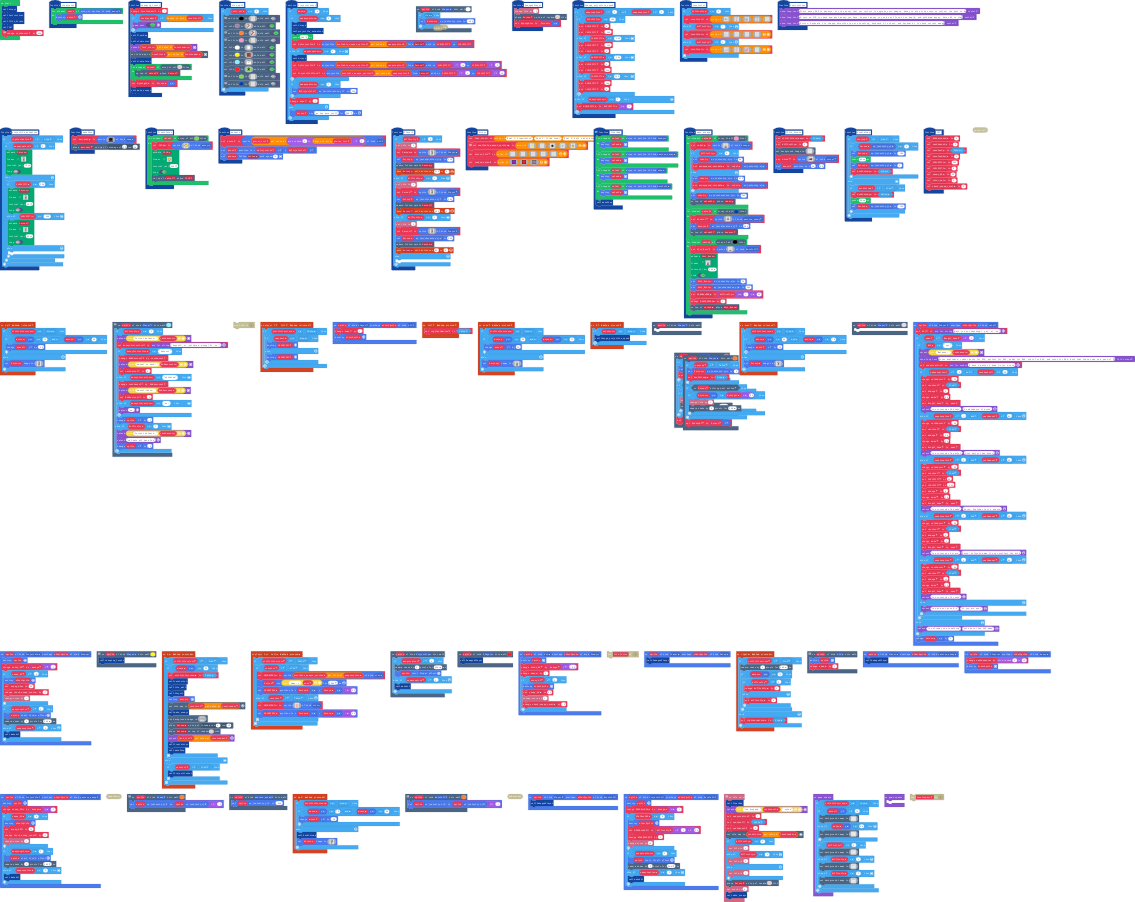
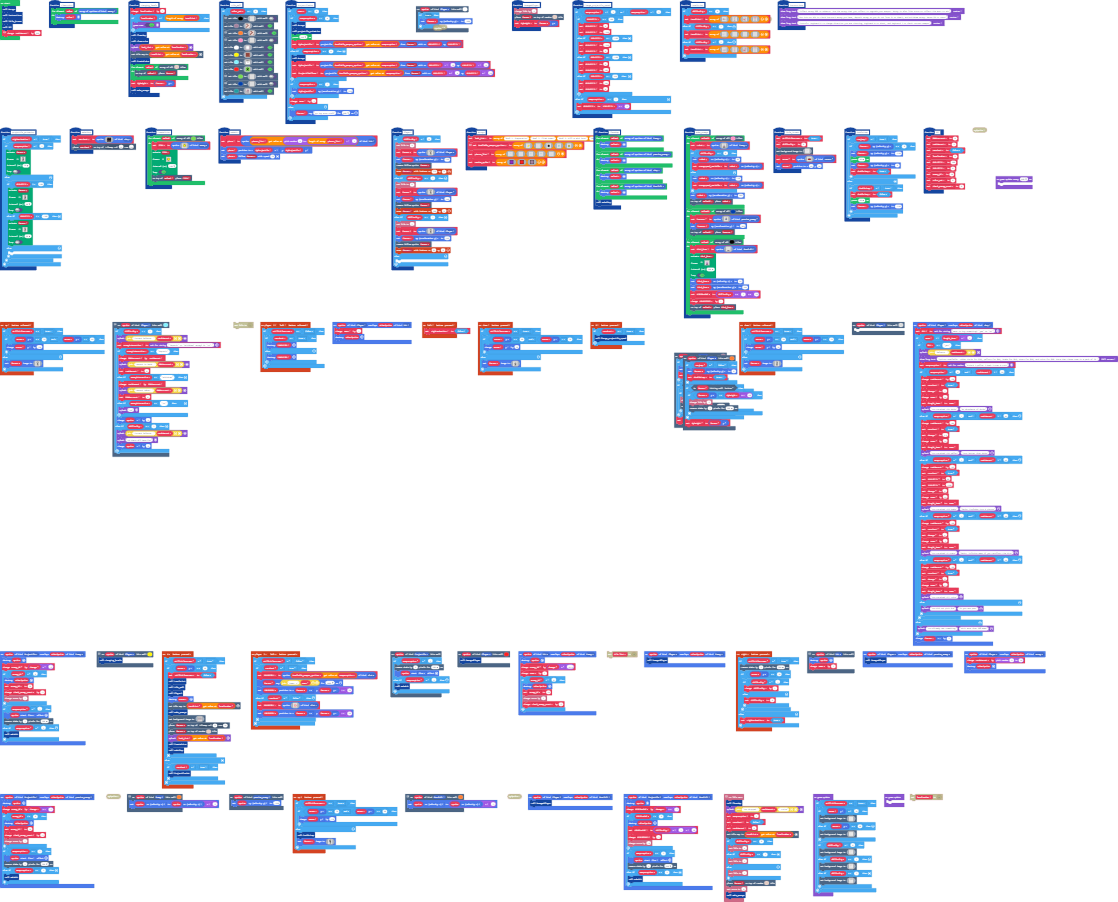
edit the spawner

diff --git a/main.ts b/main.ts
@@ -303,6 +303,24 @@ e e e e e e e e e e e e e e e e
 . . . . . . . . . . . . . . . . 
 . . . . . . . . . . . . . . . . 
 `, false)
+        scene.setTile(6, img`
+. . . . . . . . . . . . . . . . 
+. . . . . b b b b b b . . . . . 
+. . . . . b 1 1 1 1 b . . . . . 
+. . . . . b 1 2 2 1 b . . . . . 
+. . . . . b 1 2 2 1 b . . . . . 
+. . . . . b 1 1 1 1 b . . . . . 
+. . . . c b b b b b b c . . . . 
+. . . c c c c c c c c c c . . . 
+. . . c b b b b b b b b c . . . 
+. . . b . f . f . f . f b . . . 
+. . b . . . . . . . . . . b . . 
+. . b . . . . . . . . . . b . . 
+. . b . . . . . . . . . . b . . 
+. . b . . . . . . . . . . b . . 
+. . b . f . f . f . f . f b . . 
+. . . b b b b b b b b b b . . . 
+`, true)
     }
 }
 function Projectileshot () {
@@ -424,8 +442,8 @@ b b b b b b b b b b b b b b b b b b b b b b b b b b b b b b b b
 . . . . b . . 2 . . . b . . . . 
 . . . . b . . 2 . . b b . . . . 
 . . 7 . b . b b . . . . . . . . 
-. . . . b . 9 4 . . . 3 . . . . 
-d . . . b b b b b b b b b b 2 4 
+d . . . b . 9 4 . . . 3 . . . . 
+b b b b b b b b b b b b b b 2 4 
 `, img`
 . . . . . . . . . . . . . . . . . 
 . . . . . 7 . . . . . f . . . . . 
@@ -465,12 +483,12 @@ b b b b b b b b b b b b b 2 2 b b
 2 2 2 b . . . . . . . . . . . . . . . . . . b 2 2 2 
 . . 2 b . . . . . . . . . . . . . . . . . . b 2 . . 
 7 . 2 b . . . . . . . . . . . . . . . . . . b 2 . 7 
-. . 2 b . . . . . . . . . . . . . . . . . . b 2 . . 
-. . 2 b . . . . . . . . . . . . . . . . . . b 2 . . 
-. . 2 b . . . . . . . . . . . . . . . . . . b 2 . . 
+. . 2 b . . . . . b b b b b b b b . . . . . b 2 . . 
+. . 2 b . . b b b . . b b b b . . b b b . . b 2 . . 
+. . 2 b . . . b . . . . . . . . . . b . . . b 2 . . 
 . . 2 2 b . . . . . . . . . . . . . . . . b 2 2 . . 
-. . . 2 b . . . . . . . . . . . . . . . . b 2 . . . 
-. . . 2 2 b . . . . . . . . . . . . . . b 2 2 . . . 
+. . . 2 b . . . . . . b b b b . . . . . . b 2 . . . 
+. . . 2 2 b . . . . . . b b . . . . . . b 2 2 . . . 
 . . . . 2 b . . . . . . . . . . . . . . b 2 . . . . 
 . . . . 2 2 b b . . . . . . . . . . b b 2 2 . . . . 
 . . . . . 2 2 2 b b . . . . . . b b 2 2 2 . . . . . 
@@ -646,8 +664,8 @@ b b b b b b b b . . . . b b b 7 9 b b . . b b b . . b 1 1 b 2 2 b b b b b 7 . . 
 . . . . b . 2 2 . . . . . . . . 2 b . . . . 
 . . . . b . . 2 b . . . . 7 . . . b . . . . 
 . . . . b . . . 2 2 . . . . . . . . . . . . 
-. . . . b . . . 9 2 b . . . . . . d . . . . 
-d . . . 2 b b b b b b 2 2 b 2 2 b b b 2 2 2 
+d . . . b . . . 9 2 b . . . . . . d . . . . 
+b b b b 2 b b b b b b 2 2 b 2 2 b b b 2 2 2 
 `, img`
 2 2 2 2 2 2 2 2 2 2 2 2 2 2 2 2 2 2 2 2 2 2 2 2 2 2 2 
 . . . . . . . . . . . . . . . . . . . . . . . 2 2 2 2 
@@ -684,22 +702,76 @@ b b b b b b b b 4 . . . . . 3 4 b b b b 4 . 2 b 1 1 b
 b b b b b b b b b b b b b b b b 1 b b 1 b 2 2 b 1 1 b 
 b b b b b b b b b b b b b b b b b b b b b 2 2 b b b b 
 `, img`
-. . . . . . . . . . . . . . . . 
-. . . . . . . . . . . . . . . . 
-. . . . . . . . . . . . . . . . 
-. . . . . . . . . . . . . . . . 
-. . . . . . . . . . . . . . . . 
-. . . . . . . . . . . . . . . . 
-. . . . . . . . . . . . . . . . 
-. . . . . . . . . . . . . . . . 
-. . . . . . . . . . . . . . . . 
-. . . . . . . . . . . . . . . . 
-. . . . . . . . . . . . . . . . 
-. . . . . . . . . . . . . . . . 
-. . . . . . . . . . . . . . . . 
-. . . . . . . . . . . . . . . . 
-. . . . . . . . . . . . . . . . 
-. . . . . . . . . . . . . . . . 
+2 2 2 2 2 2 2 2 2 2 2 2 2 2 2 2 2 2 2 2 2 2 2 2 2 2 2 2 2 2 2 2 2 2 2 2 2 2 2 2 2 2 
+2 2 2 2 2 2 2 2 2 2 2 2 2 2 2 2 2 2 2 2 2 2 2 2 2 2 2 2 2 2 2 2 2 2 2 2 2 2 2 2 2 2 
+2 2 2 2 2 2 2 2 2 2 2 2 2 2 2 b b b 2 2 2 2 2 2 b b b 2 2 2 2 2 2 2 2 2 2 2 2 2 2 2 
+2 2 2 2 2 2 2 2 2 2 2 2 2 b b . . . 2 2 2 2 2 2 . . . b b 2 2 2 2 2 2 2 2 2 2 2 2 2 
+2 2 2 2 2 2 2 2 2 2 2 2 b . . . . . . 2 2 2 2 2 . . . . . b 2 2 2 2 2 2 2 2 2 2 2 2 
+2 2 2 2 2 2 2 2 2 2 b b . . . . . . . 2 2 2 2 . . . . . . . b b 2 2 2 2 2 2 2 2 2 2 
+2 2 2 2 2 2 2 2 b b 2 . . . . . . . . 2 2 2 2 . . . . . . . . 2 b b 2 2 2 2 2 2 2 2 
+2 2 2 2 2 2 2 b 2 . . . . . . . . . . . 2 2 . . . . . . . . . . . 2 b 2 2 2 2 2 2 2 
+2 2 2 2 2 2 2 b . . . . . . . . . . . . 2 2 . . . . . . . . . . . . b 2 2 2 2 2 2 2 
+2 2 2 2 2 2 b 2 . . . . . . . . . . . . . 2 . . . . . . . . . . . . 2 b 2 2 2 2 2 2 
+2 2 2 2 2 2 b . . . . . . b . . . . . . . . . . . . . . b . . . . . . b 2 2 2 2 2 2 
+2 2 2 2 2 b 2 . . . . . . . . . . . . . . . . . . . . . . . . . . . . 2 b 2 2 2 2 2 
+2 2 2 2 b 2 . . . . . . . . . . b b b . . . . b b b . . . . . . . . . . 2 b 2 2 2 2 
+2 2 2 2 b . . . . . . . . . . b . . . . . . . . . . b . . . . . . . . . . b 2 2 2 2 
+2 2 2 b 2 . . . . . . . . b b . . . . . . . . . . . . b b . . . . . . . . 2 b 2 2 2 
+2 2 2 b . . . . . . . . . . . . . . . . . . . . . . . . . . . . . . . . . . b 2 2 2 
+2 2 2 b . . . . . . . . . . . . . b 2 . . . . 2 b . . . . . . . . . . . . . b 2 2 2 
+2 2 b 2 . . . . . . . . . . . . 2 b b . . . . b b 2 . . . . . . . . . . . . 2 b 2 2 
+2 2 b . . . . . . . . . . . . 2 2 . b . . . . b . 2 2 . . . . . . . . . . . . b 2 2 
+2 2 b . . . . . . . . . . . b b . . . . . . . . . . b b . . . . . . . . . . . b 2 2 
+. . b . . . . . . b b b . . 2 b b . . . . . . . . b b 2 . . b b b . . . . . . b . . 
+. . b . . . . . b . . . . . . . . . . . . . . . . . . . . . . . . b . . . . . b . . 
+. . b 2 . . . . b . . . . . . . . . . . . . . . . . . . . . . . . b . . . . 2 b . . 
+. . . b . . . . . . . . . . . . . . . . . . . . . . . . . . . . . . . . . . b . . . 
+. . . b . . . . . . . . . . . . . . . . . . . . . . . . . . . . . . . . . . b . . . 
+. . . b 2 . b b b b . . . . 2 b b . . . . . . . . b b 2 . . . . b b b b . 2 b . . . 
+. . . . b b b b . . . . . . b b . . . . . . . . . . b b . . . . . . b b b b . . . . 
+. . . . b b b . . . . . . . . 2 2 . b . . . . b . 2 2 . . . . . . . . b b b . . . . 
+. . . . . b 2 . . . . . . . . . 2 b b . . . . b b 2 . . . . . . . . . 2 b . . . . . 
+. . . . . . b . . . b b b . . . . b 2 . . . . 2 b . . . . b b b . . . b . . . . . . 
+. . . . . . b 2 . . . b . . . . . . . . . . . . . . . . . . b . . . 2 b . . . . . . 
+. . . . . . . b . . . b . . . . . . . . . . . . . . . . . . b . . . b . . . . . . . 
+. . . . . . . b 2 . . b b b . . . . . . . . . . . . . . b b b . . 2 b . . . . . . . 
+. . . . . . . . b b . b . . . . . . . . . . . . . . . . . . b . b b . . . . . . . . 
+. . . . . . . . . . b b . . . . . . . . . . . . . . . . . . b b . . . . . . . . . . 
+. . . . . . . . . . . . b . b . . . . . . . . . . . . b . b . . . . . . . . . . . . 
+. . . . . . . . . . . . . b b . . . . . . . . . . . . b b . . . . . . . . . . . . . 
+. . . . . . . . . . . . . . . b b b . . . . . . b b b . . . . . . . . . . . . . . . 
+. . . . . . . . . . . . . . . . . . b . . . . b . . . . . . . . . . . . . . . . . . 
+. . . . . . . . . . . . . . . . . . . . . . . . . . . . . . . . . . . . . . . . . . 
+. . . . . . . . . . . . . . . . . . . . . . . . . . . . . . . . . . . . . . . . . . 
+. . . . . . . . . . . . . . . . . . . . . . . . . . . . . . . . . . . . . . . . . . 
+. . . . . . . . . . . . . . . . . . . . . . . . . . . . . . . . . . . . . . . . . . 
+. . . . . . . . . . . . . . . . . . . . . . . . . . . . . . . . . . . . . . . . . . 
+. . . . . . . 4 b b b b b b b b b 4 . . . . . . 4 b b b b b b b b b b 4 . . . . . . 
+. . . . . . . . . . . . . . . . . . . . . . . . . . . . . . . . . . . . . . . . . . 
+. . . . . . . . . . . . . . . . . . . . . . . . . . . . . . . . . . . . . . . . . . 
+. . . . . . . . . . f . . . f . . . . . . . . . . . . f . . . . f . . . . . . . . . 
+. . . . . . . . . . . . . . . . . . . . . . . . . . . . . . . . . . . . . . . . . . 
+. . . . . . 4 b b b b b b b b b b b 4 . . . . 4 b b b b b b b b b b b b 4 . . . . . 
+. . . . . . . . . . . . . . . . . . . . . . . . . . . . . . . . . . . . . . . . . . 
+. . . . . . . . . . . . . . . . . . . . . . . . . . . . . . . . . . . . . . . . . . 
+. . . . . . . . . . . . . . . . 8 . . . . . . . . 8 . . . . . . . . . . . . . . . . 
+. . . . . . . . . . . . . . 8 . . . . . . . . . . . . 8 . . . . . . . . . . . . . . 
+. . . . . . . . . . . . 8 . . . . . . . . . . . . . . . . 8 . . . . . . . . . . . . 
+. . . . . . . . . . 8 . . . . . . . . . . . . . . . . . . . . 8 . . . . . . . . . . 
+. . . . . . . . 8 . . . . . . . . . . . . . . . . . . . . . . . . 8 . . . . . . . . 
+. . . . . . 4 b b b b b b b b b b 4 . . . . . . 4 b b b b b b b b b b 4 . . . . . . 
+. . . . . . . . . . . . . . . . . . . . . . . . . . . . . . . . . . . . . . . . . . 
+. . . . . . . . . . . . . . . . . . . . . . . . . . . . . . . . . . . . . . . . . . 
+. . . . . . 3 . . 3 . . 3 . . 3 . . . . . . . . . . 3 . . 3 . . 3 . . 3 . . . . . . 
+. . . . 4 b b b b b b b b b b b b b 4 . . . . 4 b b b b b b b b b b b b b 4 . . . . 
+. . . . . . . . . . . . . . . . . . . . . . . . . . . . . . . . . . . . . . . . . . 
+. . . . . . . . . . . . . . . . . . . . . . . . . . . . . . . . . . . . . . . . . . 
+. . . . . . . . . . . . . . . . . . . . . . . . . . . . . . . . . . . . . . . . . . 
+. . . . . . . . . . . . . . . . . . . . . . . . . . . . . . . . . . . . . . . . . . 
+. . . . . . . . . b b b b b b b . . . . . . . . . . b b b b b b b . . . . . . . . . 
+. . . . . . b b b b b b b b b b b b b . . . . b b b b b b b b b b b b b . . . . . . 
+. . . . b b b b b b b b b b b b b b b 1 1 1 1 b b b b b b b b b b b b b b b . . . . 
+b b b b b b b b b b b b b b b b b b b b b b b b b b b b b b b b b b b b b b b b b b 
 `]
     }
 }
@@ -962,9 +1034,6 @@ function projectile_animation () {
         }
     }
 }
-scene.onHitWall(SpriteKind.Player, function (sprite) {
-	
-})
 controller.down.onEvent(ControllerButtonEvent.Released, function () {
     if (stilltitlescreen == true) {
         if (mouse.y == 50 && mouse.y < 70) {
@@ -3709,5 +3778,8 @@ b b 1 1 1 1 1 1 1 1 1 1 1 1 1 1 1 1 1 1 1 1 1 1 1 1 1 1 1 1 1 1 1 1 1 1 1 1 1 1 
     }
 })
 game.onUpdate(function () {
+	
+})
+game.onUpdateInterval(500, function () {
 	
 })
